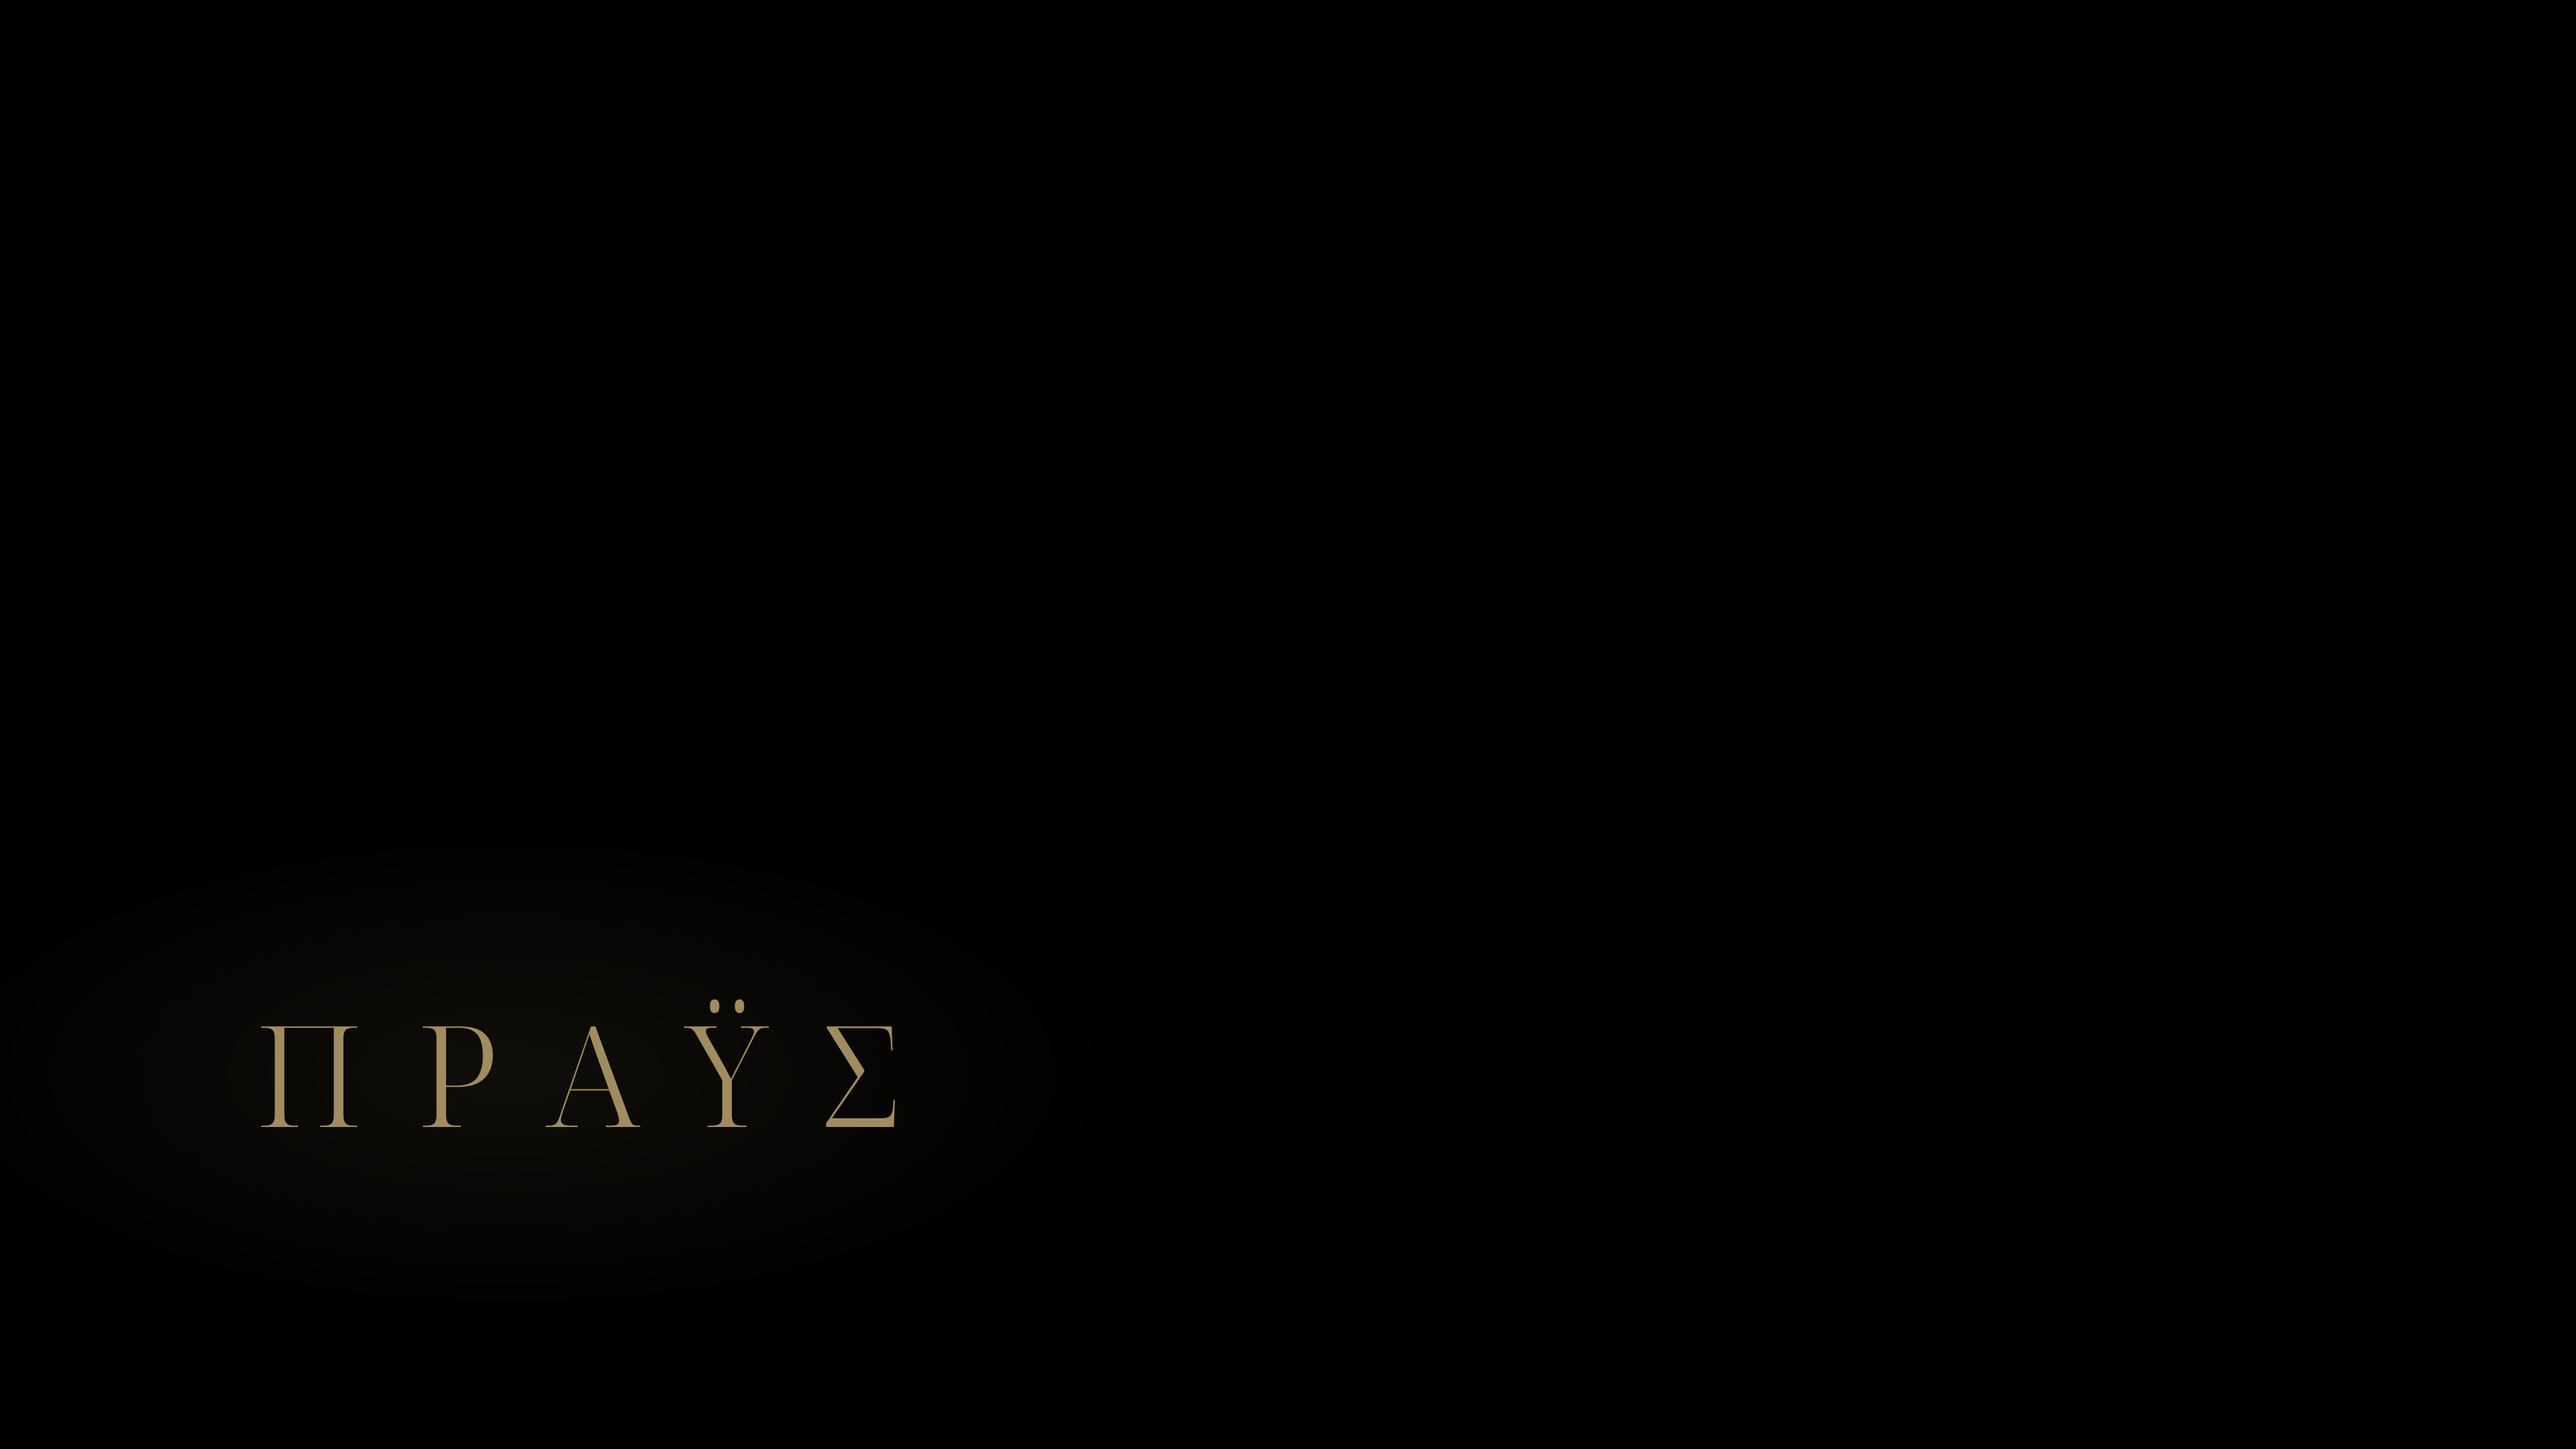
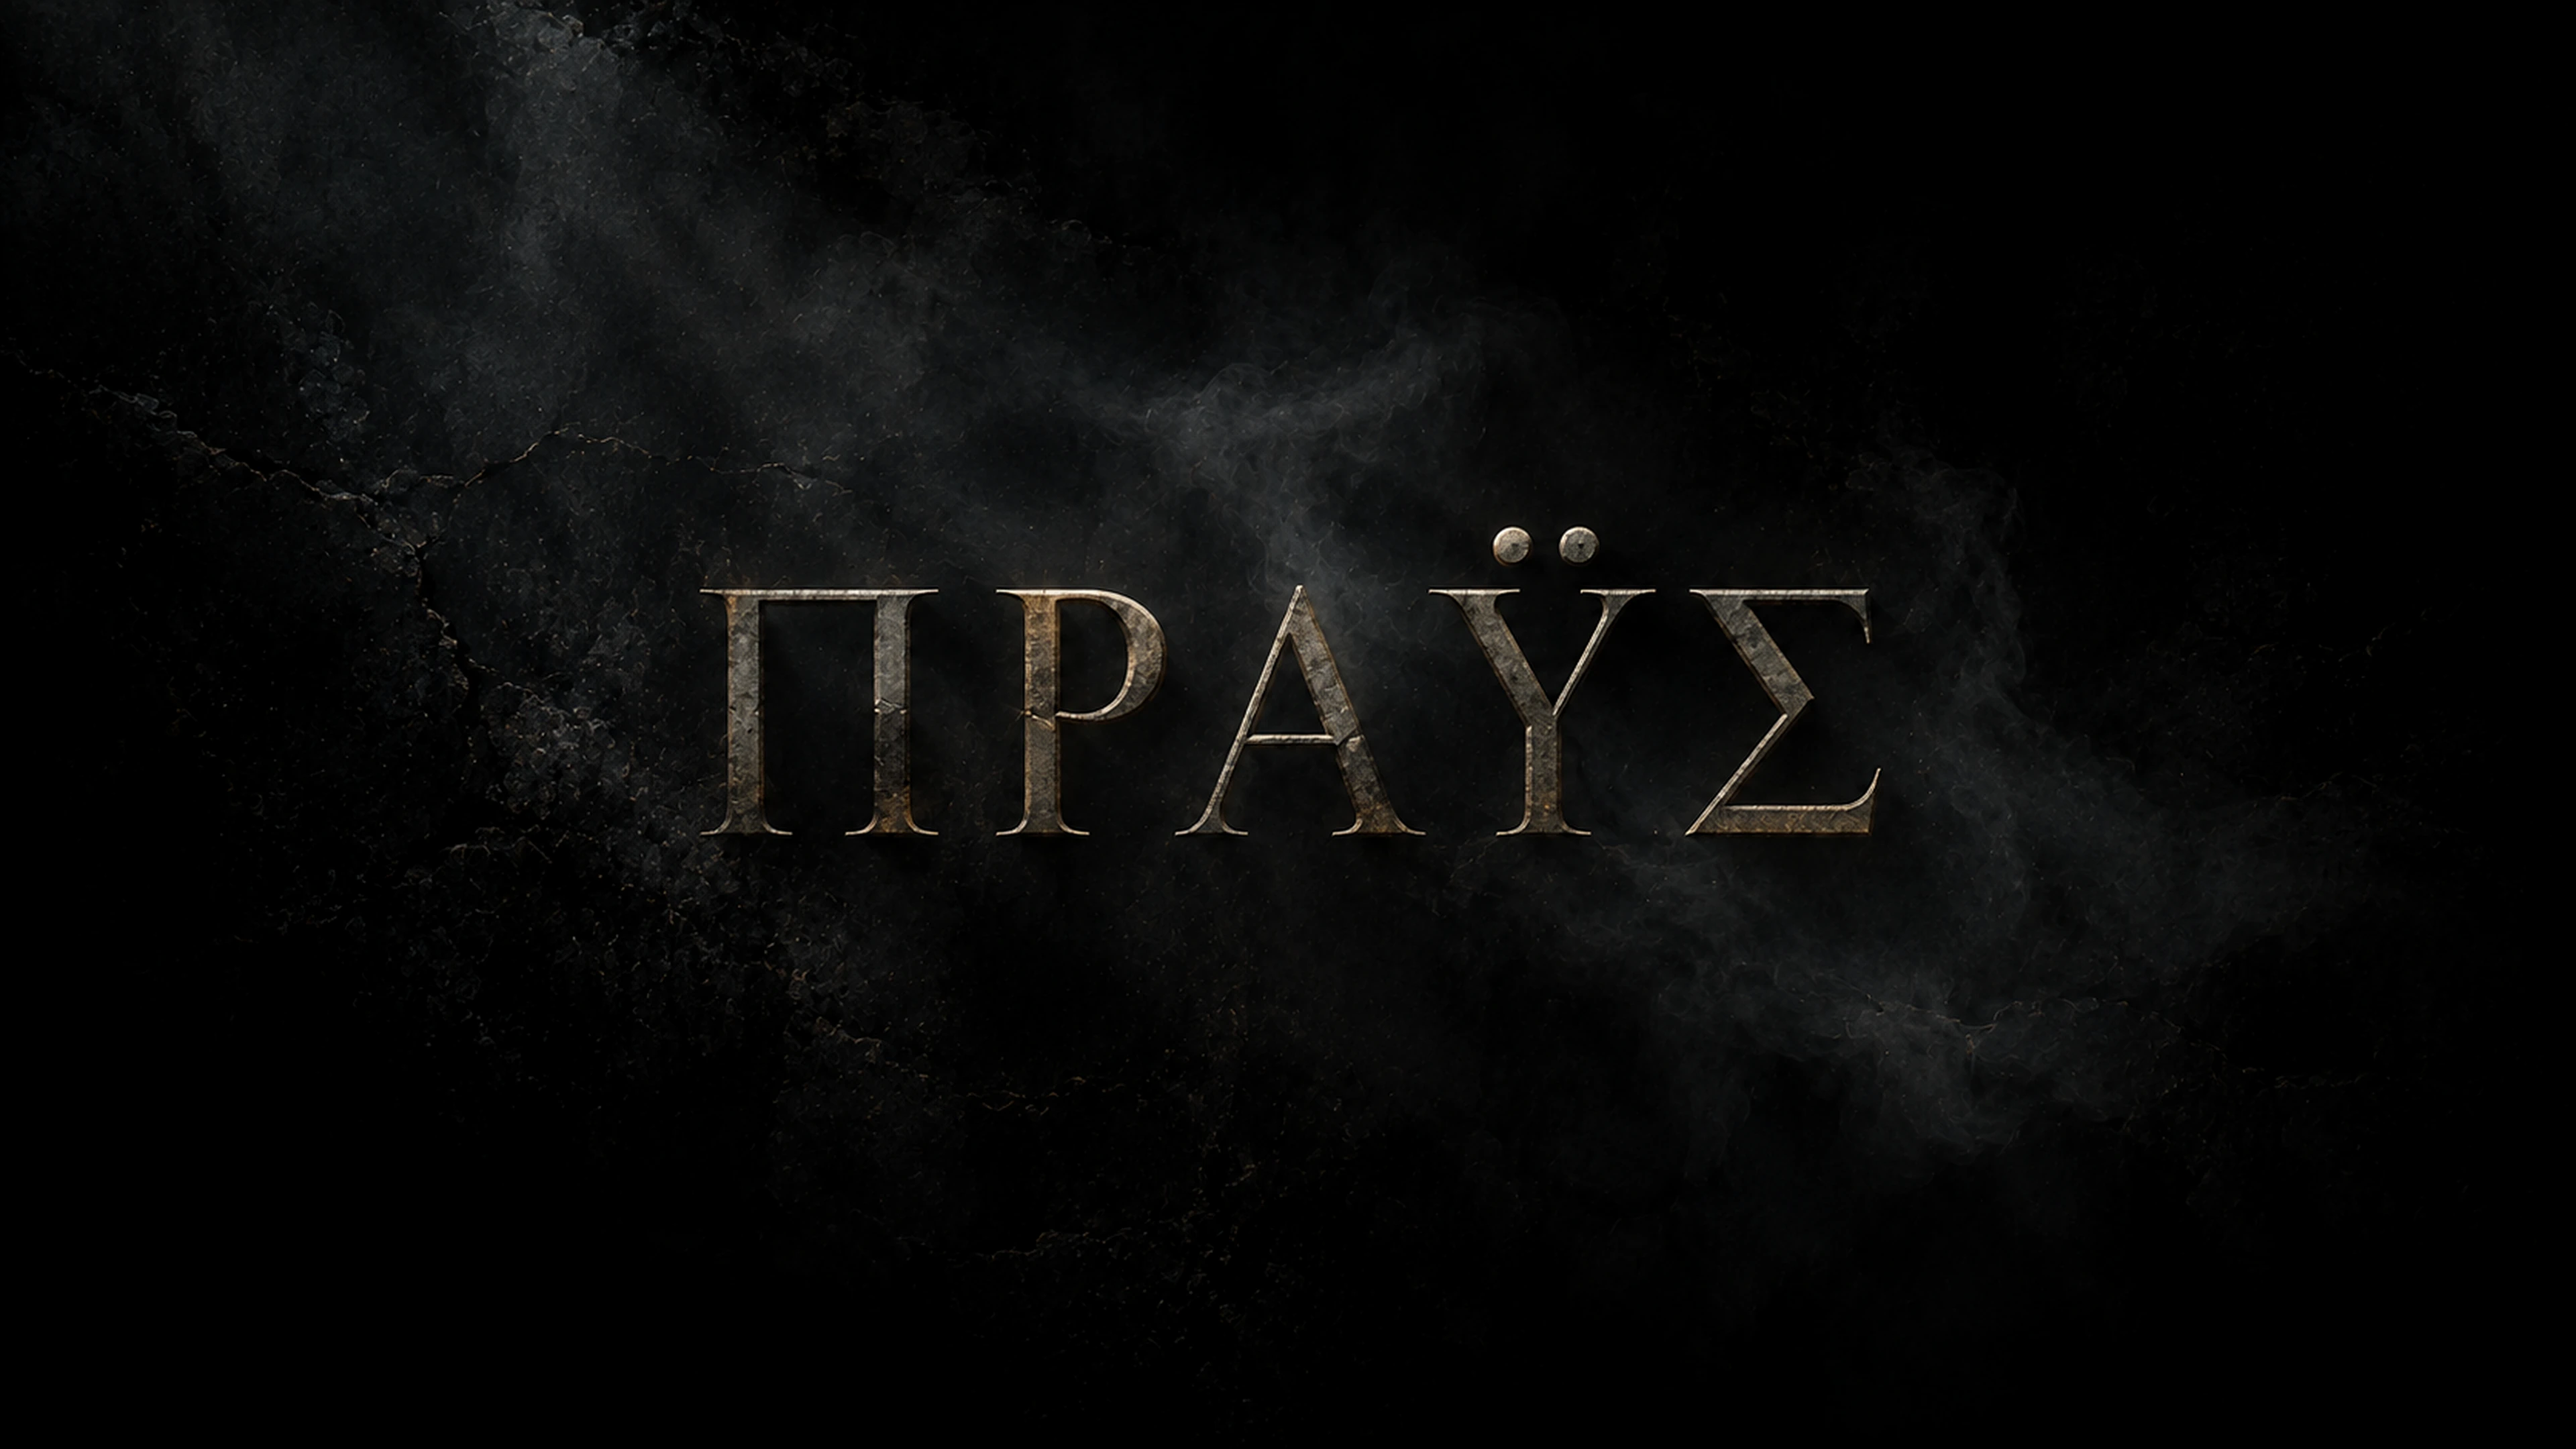
The four wallpapers are Parker's 2026-10-19 renders, with a skull painted out of the knight
backgrounds/ now carries Parker's newest set, all made with ChatGPT on 2026-10-19 at 1672x941:
the knight with spear and censer in a corridor below a cross window, the cell with an icon of
the Mother of God with the Child, the lamp, and ΠΡΑΫΣ as painted, smoky lettering, which
replaces the typeset SVG. preview.png is retaken over the new knight.

The knight's round window under the cross lets in light shaped like a cartoon skull, top centre
of the primary wallpaper of a theme named for meekness. The new lettering was AI-generated, so it
had to be checked before it shipped; it reads ΠΡΑΫΣ correctly, diaeresis included.

The skull is painted out of the shipped wallpaper only: the glyph is covered with the wall's
stone colour (#141413) and a plain lit disc in the window's sky colour (#CDDAE1) takes its place,
about 400 pixels of the original; art/the-meek-warrior.png is kept exactly as made. The repair
uses a fixed noise seed so art/README.md's commands reproduce the file byte for byte (checked
twice). Grades land at mean luma 6.6, 5.1, 2.3 and 3.2 percent; the set is 1.45 MB. The cell's
earlier 8K master stays in history; this cell is a different render at 1672x941.

diff --git a/art/README.md b/art/README.md
@@ -1,37 +1,55 @@
 # Art
 
-Sources for the four wallpapers in `backgrounds/`.
+Sources for the four wallpapers in `backgrounds/`. All four were made for this theme by Parker
+Brown with ChatGPT on 2026-10-19, at 1672×941.
 
-| Wallpaper | Source | Made |
-|---|---|---|
-| `1-the-meek-warrior.webp` | `the-meek-warrior.png` (1672×941) | Parker Brown, ChatGPT, 2026-10-16 |
-| `2-the-cell.webp` | `the-cell.png` (7680×4320 master) | Parker Brown, ChatGPT, 2026-10-16 |
-| `3-the-lamp.webp` | `the-lamp.png` (1672×941) | Parker Brown, ChatGPT, 2026-10-16 |
-| `4-praus.webp` | `praus.svg` | Set in Noto Serif Display Light, bronze `#A18C60` on black |
+| Wallpaper | Source |
+|---|---|
+| `1-the-meek-warrior.webp` | `the-meek-warrior.png` |
+| `2-the-cell.webp` | `the-cell.png` |
+| `3-the-lamp.webp` | `the-lamp.png` |
+| `4-praus.webp` | `praus.png` |
+
+## One repair
+
+In the knight's source, the round window under the cross lets in light shaped like a skull. The
+shipped wallpaper paints that shape out: the glyph is covered with the wall's own stone colour
+and a plain lit disc in the window's sky colour takes its place, about 400 pixels of the
+original. `the-meek-warrior.png` is kept exactly as made.
 
 ## The grade
 
-Each painting is resized with Lanczos to fill 3840×2160 (the knight and the lamp upscaled from 1672×941, the cell downscaled from its 8K master), then brightness and saturation are scaled and the black point lifted, so the shadows land on the palette's true black.
+Each image is upscaled with Lanczos to fill 3840×2160, then brightness and saturation are scaled
+and the black point lifted, so the shadows land on the palette's true black.
 
 | Wallpaper | Brightness | Saturation | Black point | Mean luma, source → graded |
 |---|---|---|---|---|
-| The Meek Warrior | 96% | 90% | 2% | 7.1% → 5.8% |
-| The Cell | 100% | 95% | 1% | 5.0% → 4.2% |
-| The Lamp | 100% | 94% | 1% | 3.1% → 2.5% |
+| The Meek Warrior | 92% | 90% | 3% | 9.3% → 6.6% |
+| The Cell | 96% | 92% | 2% | 6.6% → 5.1% |
+| The Lamp | 100% | 94% | 1% | 2.9% → 2.3% |
+| ΠΡΑΫΣ | 100% | 95% | 1% | 4.0% → 3.2% |
 
-From the repository root, with ImageMagick 7:
+From the repository root, with ImageMagick 7. The knight takes the repair first; the seed makes
+the stone's grain, and so the file, reproducible.
 
 ```sh
-magick art/the-meek-warrior.png -filter Lanczos -resize 3840x2160^ -gravity center -extent 3840x2160 -modulate 96,90,100 -level 2%,100% -strip -quality 90 -define webp:method=6 backgrounds/1-the-meek-warrior.webp
+magick art/the-meek-warrior.png -crop 120x120+990+140 +repage -colorspace Gray -threshold 55% -morphology Dilate Disk:2 \( -size 1672x941 xc:black \) +swap -geometry +990+140 -compose over -composite -blur 0x1 /tmp/praus-skullmask.png
 ```
 ```sh
-magick art/the-cell.png -filter Lanczos -resize 3840x2160^ -gravity center -extent 3840x2160 -modulate 100,95,100 -level 1%,100% -strip -quality 90 -define webp:method=6 backgrounds/2-the-cell.webp
+magick art/the-meek-warrior.png \( -size 1672x941 xc:'#141413' -seed 1 -attenuate 0.25 +noise Gaussian /tmp/praus-skullmask.png -alpha off -compose CopyOpacity -composite \) -compose over -composite \( -size 1672x941 xc:none -fill '#CDDAE1' -draw 'circle 1037,186 1037,171' -blur 0x1.4 \) -compose over -composite /tmp/praus-knight.png
+```
+```sh
+magick /tmp/praus-knight.png -filter Lanczos -resize 3840x2160^ -gravity center -extent 3840x2160 -modulate 92,90,100 -level 3%,100% -strip -quality 90 -define webp:method=6 backgrounds/1-the-meek-warrior.webp
+```
+```sh
+magick art/the-cell.png -filter Lanczos -resize 3840x2160^ -gravity center -extent 3840x2160 -modulate 96,92,100 -level 2%,100% -strip -quality 90 -define webp:method=6 backgrounds/2-the-cell.webp
 ```
 ```sh
 magick art/the-lamp.png -filter Lanczos -resize 3840x2160^ -gravity center -extent 3840x2160 -modulate 100,94,100 -level 1%,100% -strip -quality 90 -define webp:method=6 backgrounds/3-the-lamp.webp
 ```
 ```sh
-rsvg-convert art/praus.svg | magick - -strip -define webp:lossless=true backgrounds/4-praus.webp
+magick art/praus.png -filter Lanczos -resize 3840x2160^ -gravity center -extent 3840x2160 -modulate 100,95,100 -level 1%,100% -strip -quality 90 -define webp:method=6 backgrounds/4-praus.webp
 ```
 
-The word is ΠΡΑΫΣ, the capital form of πραΰς as the lexicon gives it (Strong's 4239).
+The word is ΠΡΑΫΣ, the capital form of πραΰς as the lexicon gives it (Strong's 4239); the
+lettering in `praus.png` was checked letter by letter, diaeresis included.

diff --git a/docs/plans/praus-theme/00-status.md b/docs/plans/praus-theme/00-status.md
@@ -30,9 +30,13 @@ How the nine decisions on the plan page landed:
 - Parker's ChatGPT design session (2026-10-15). The seven named colours come from the turn he
   screenshotted: Vantablack `#000000`, Iron `#292F2B`, Monastic olive `#536049`, Worn sage
   `#86917B`, Aged linen `#D4D0BF`, Ancient bronze `#A18C60`, Dried blood `#813B35`.
-- Parker's paintings, 2026-10-16, ChatGPT, 1672×941 each: `art/the-meek-warrior.png`,
-  `art/the-cell.png`, `art/the-lamp.png`. The cell carries an AI-painted icon of a saint with no
-  lettering; named to Parker and kept at his call.
+- Parker's art, current set 2026-10-19 ("update images used..."), ChatGPT, 1672×941 each:
+  `art/the-meek-warrior.png`, `art/the-cell.png`, `art/the-lamp.png`, `art/praus.png` (the word,
+  now painted; it replaced the typeset SVG). Earlier sets (2026-10-16, including the cell's 8K
+  master) are in git history. The knight's round window let in light shaped like a skull; the
+  shipped wallpaper paints it out as a plain lit disc (`art/README.md`, seeded and reproducible),
+  the source is untouched. The cell's icon (Mother of God with the Child) carries AI pseudo-
+  lettering a few pixels high; kept at Parker's call, as with the earlier icon.
 - Parker's words: "PRAUS (meekness)", "VERY SERIOUS. like immortal soul seriousness.. Eastern
   warrior monk roots", and the README epigraph.
 
@@ -40,8 +44,9 @@ How the nine decisions on the plan page landed:
 
 - Contrast on black: linen 13.57, bronze 6.44, sage 6.35, olive 3.14, blood 2.61 (lifted red
   4.61), iron 1.54. Derived terminal colours 4.91–6.82.
-- Mean luma source → graded: knight 7.1 → 5.8, cell 5.0 → 4.2 (8K master, 2026-10-16 06:18), lamp 3.1 → 2.5, word 0.35.
-  Backgrounds total 1.1 MB as WebP. Lamp smoke checked for banding at 3× stretch: none.
+- Mean luma source → graded (2026-10-19 set): knight 9.3 → 6.6, cell 6.6 → 5.1, lamp 2.9 → 2.3,
+  word 4.0 → 3.2. Backgrounds total 1.45 MB as WebP. Lamp smoke checked for banding at 3×
+  stretch (2026-10-16 set): none.
 - Target: Omarchy 4.0.4. The wallpaper plugin is still-image only, `PreserveAspectCrop`.
 - Registry rules read live 2026-10-16 (`omacom/omarchy-theme-registry`, `validate.ts`): the
   published tree avoids every warning — no scripts, no images outside `backgrounds/`, a 16:9

diff --git a/README.md b/README.md
@@ -41,9 +41,9 @@ Dried blood started as `#813B35`, which measures 2.61:1 on black and cannot be r
 1. **The Meek Warrior** — the primary
 2. **The Cell**
 3. **The Lamp**
-4. **ΠΡΑΫΣ** — the word, set in Noto Serif Display
+4. **ΠΡΑΫΣ** — the word
 
-The three paintings were made for this theme by Parker Brown with ChatGPT in October 2026, then graded onto the palette's black at 3840×2160; The Cell comes from an 8K master. The originals, the type source and the exact grade are in [`art/`](art/).
+All four were made for this theme by Parker Brown with ChatGPT in October 2026, then graded onto the palette's black at 3840×2160. The originals and the exact grade are in [`art/`](art/).
 
 ## License
 
